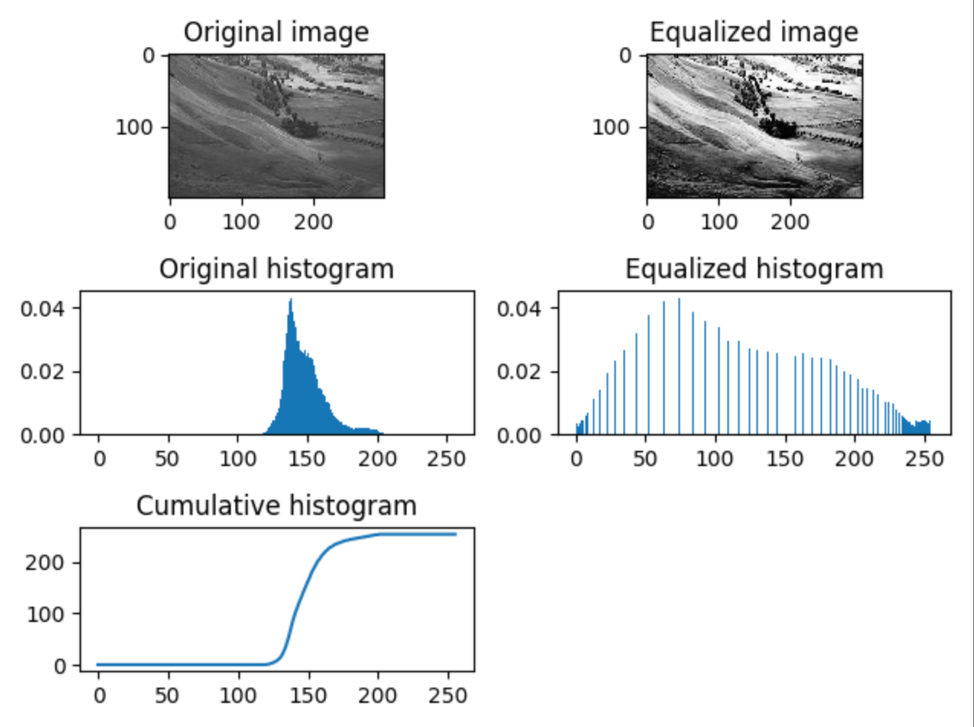
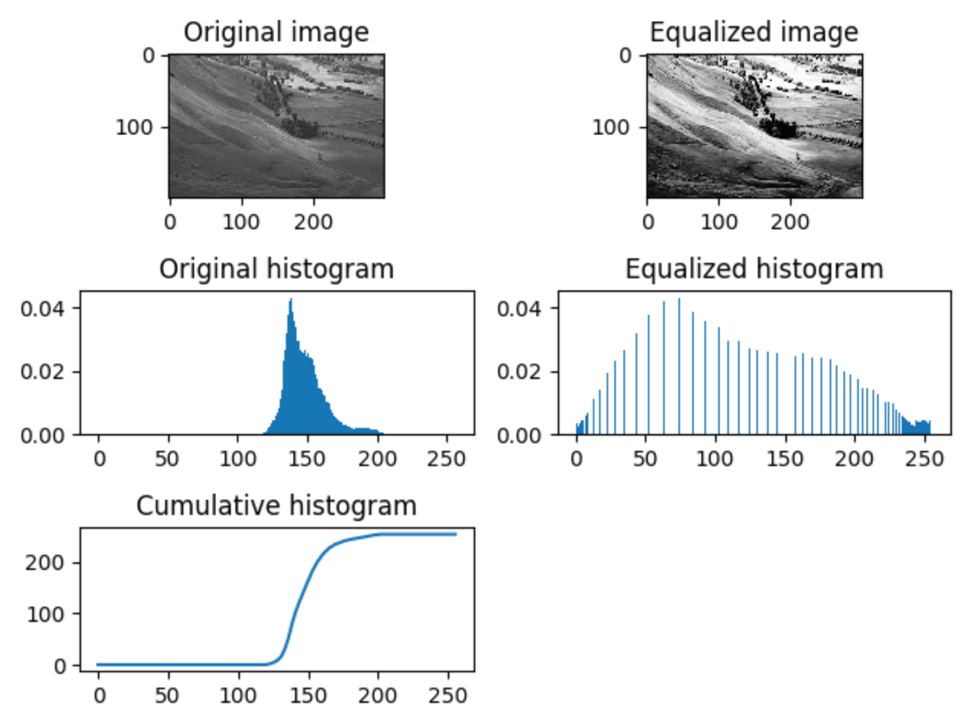
Resize the referenced image

diff --git a/source/2.separable-filters/README.md b/source/2.separable-filters/README.md
@@ -54,25 +54,26 @@ def calculate_number_of_diff_pixel(image1, image2, margin):
 ```
 
 To sum up, there was no difference between those two kind of pictures after using mean filter and the separable filter. And Separating a 2D filter into two 1D filters can greatly speed convolution.
+
 The following is the effect after smooth the noisy image.
 
 #### 1. Smooth the image after adding the uniform noise:
 
-![uniform noise](../../src/uniform_noise_filter_1.png)
+<div align=center><img width="400" src="../../src/uniform_noise_filter_1.png"/></div>
 
 >The time cost by applying mean filter: 21.845s<br/>
 >The time cost by applying separable filters: 7.301s
 
 #### 2. Smooth the image after adding the salt&pepper noise:
 
-![salt pepper noise](../../src/saltpepper_noise_filter_1.png)
+<div align=center><img width="400" src="../../src/saltpepper_noise_filter_1.png"/></div>
 
 >The time cost by applying mean filter: 21.605s<br/>
 >The time cost by applying separable filters: 8.085s
 
 #### 3. Smooth the image after adding the gaussian noise:
 
-![gaussian noise](../../src/gaussian_noise_filter_1.png)
+<div align=center><img width="400" src="../../src/gaussian_noise_filter_1.png"/></div>
 
 >The time cost by applying mean filter: 27.941s<br/>
 >The time cost by applying separable filters: 9.428s

diff --git a/source/1.histogram-equalization/README.md b/source/1.histogram-equalization/README.md
@@ -43,12 +43,12 @@ def hist_equalization(image):
 
 Example 1:
 
-![example1](../../src/histeq_1.png)
+<div align=center><img width="400" src="../../src/histeq_1.png"/></div>
 
 Example 2:
 
-![example2](../../src/histeq_2.png)
+<div align=center><img width="400" src="../../src/histeq_2.png"/></div>
 
 Example 3:
 
-![example3](../../src/histeq_3.png)
+<div align=center><img width="400" src="../../src/histeq_3.png"/></div>
